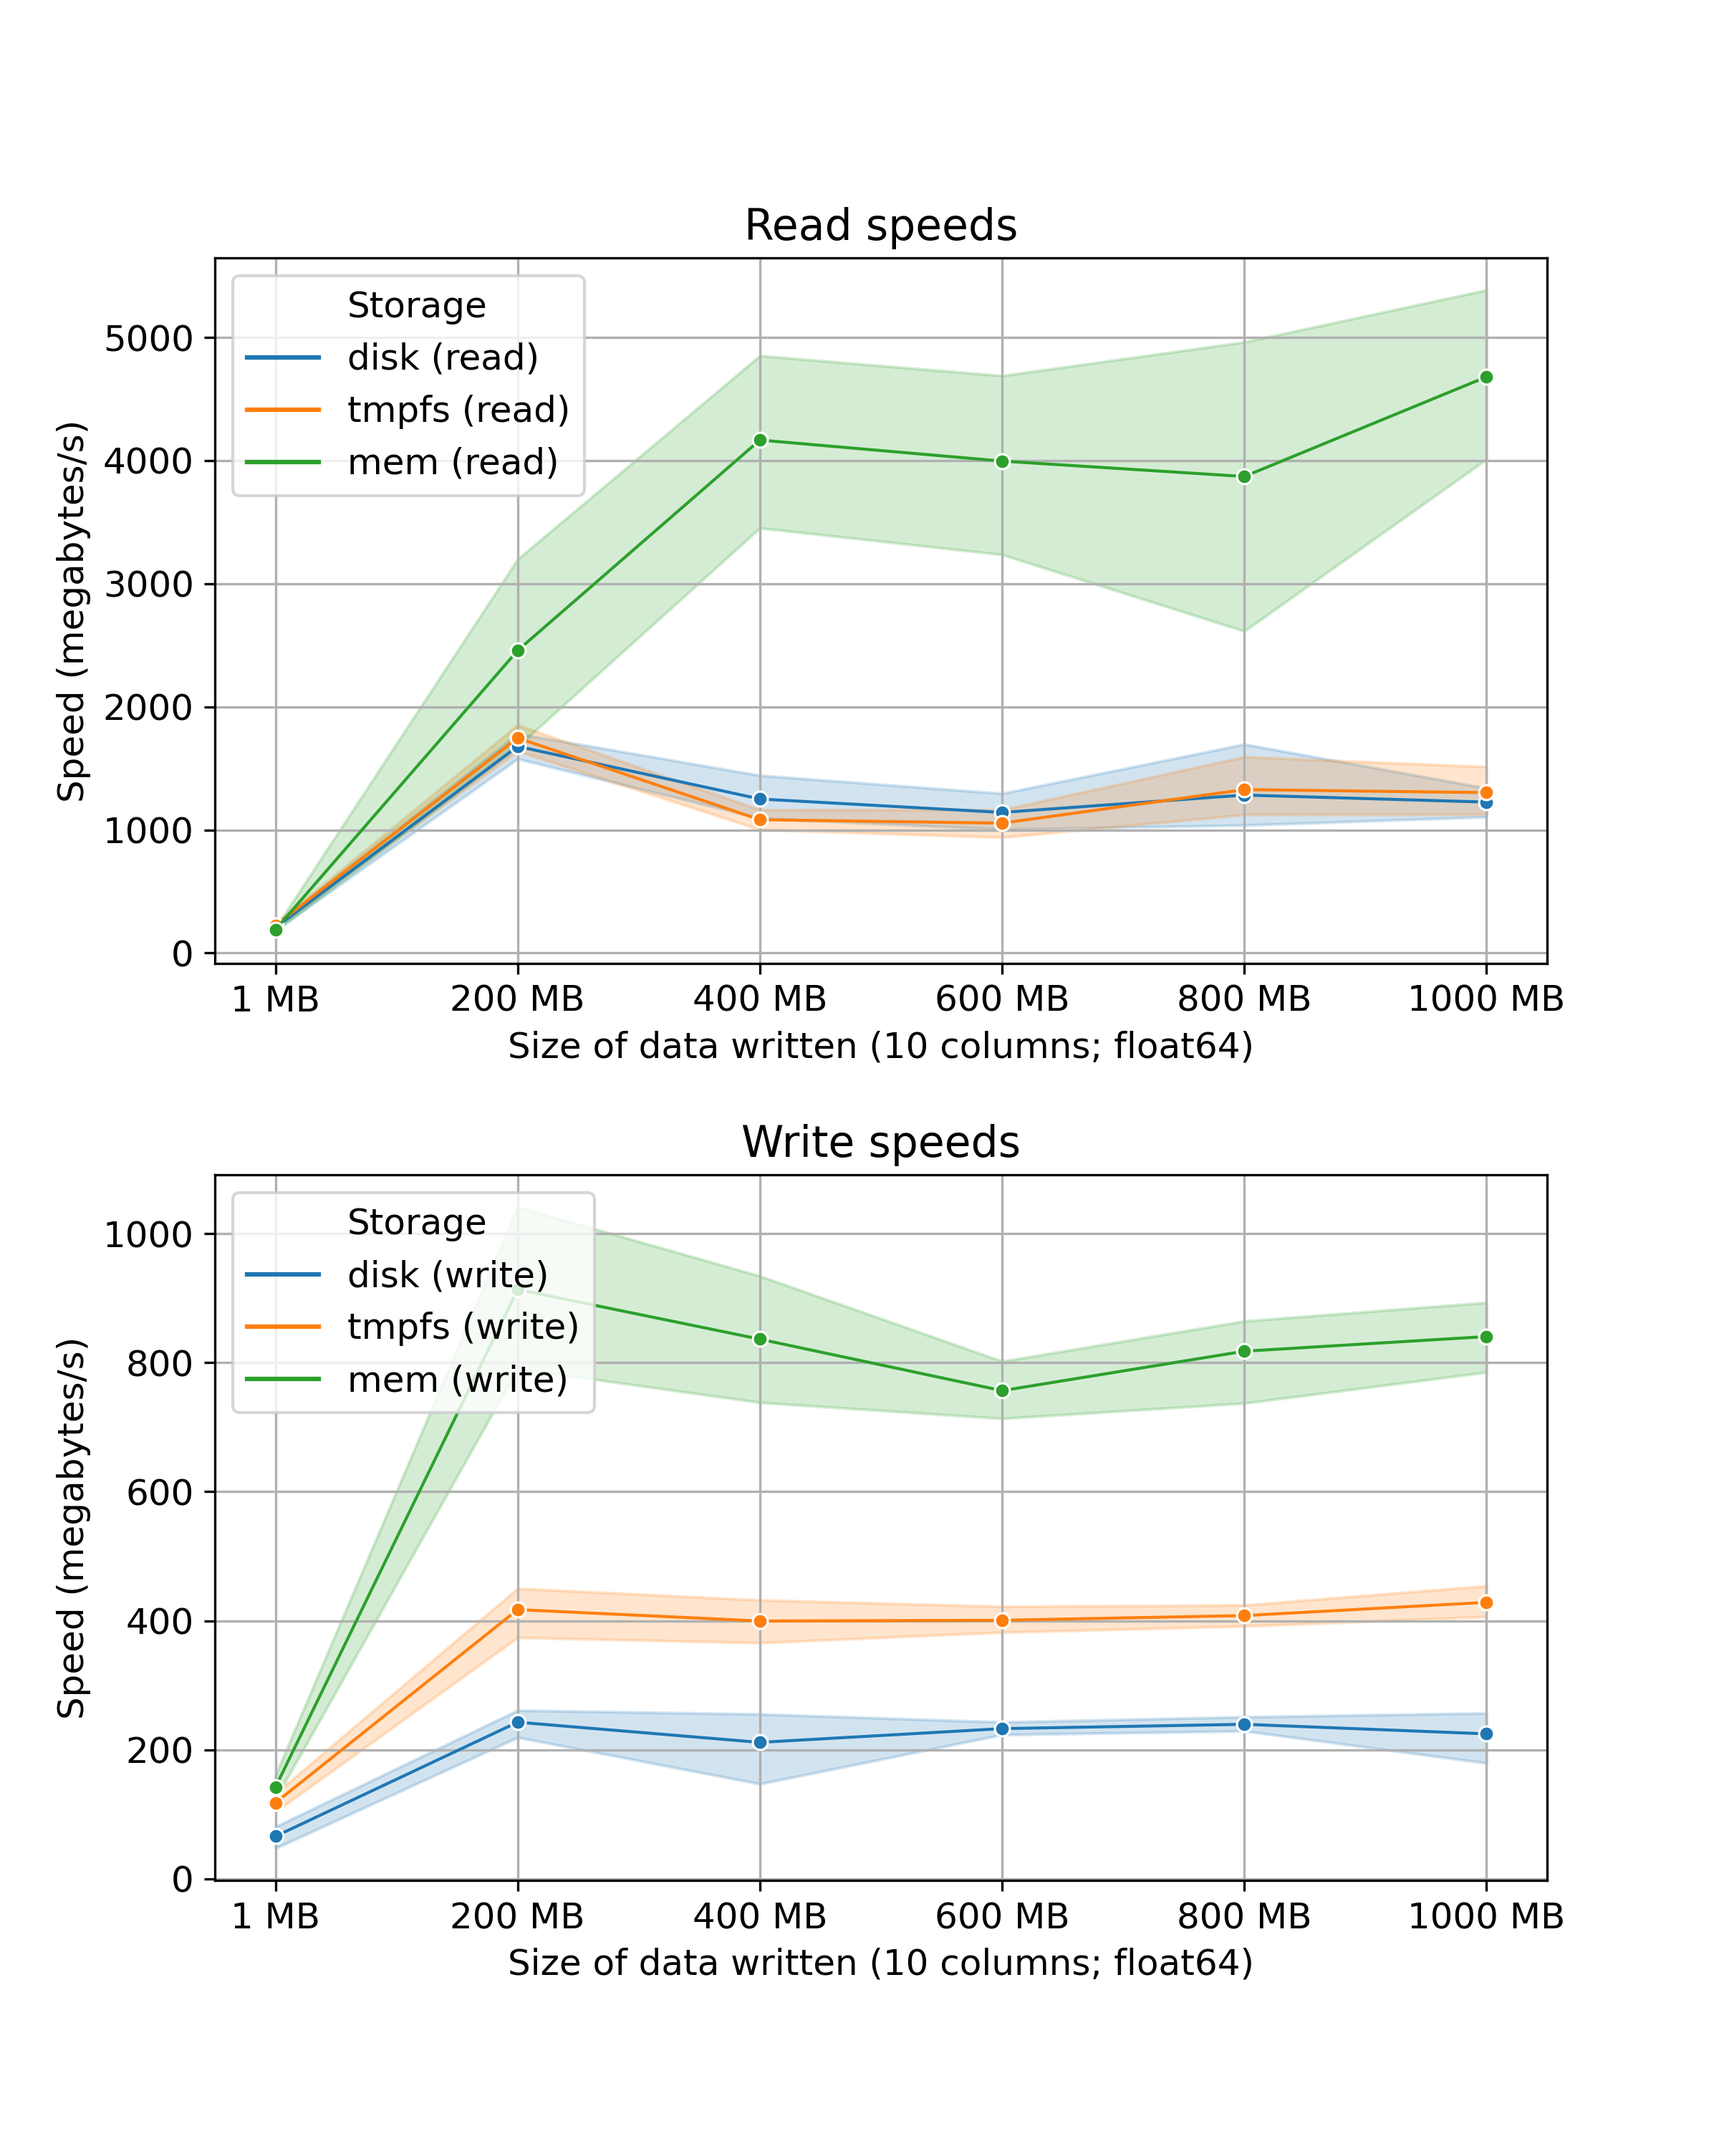
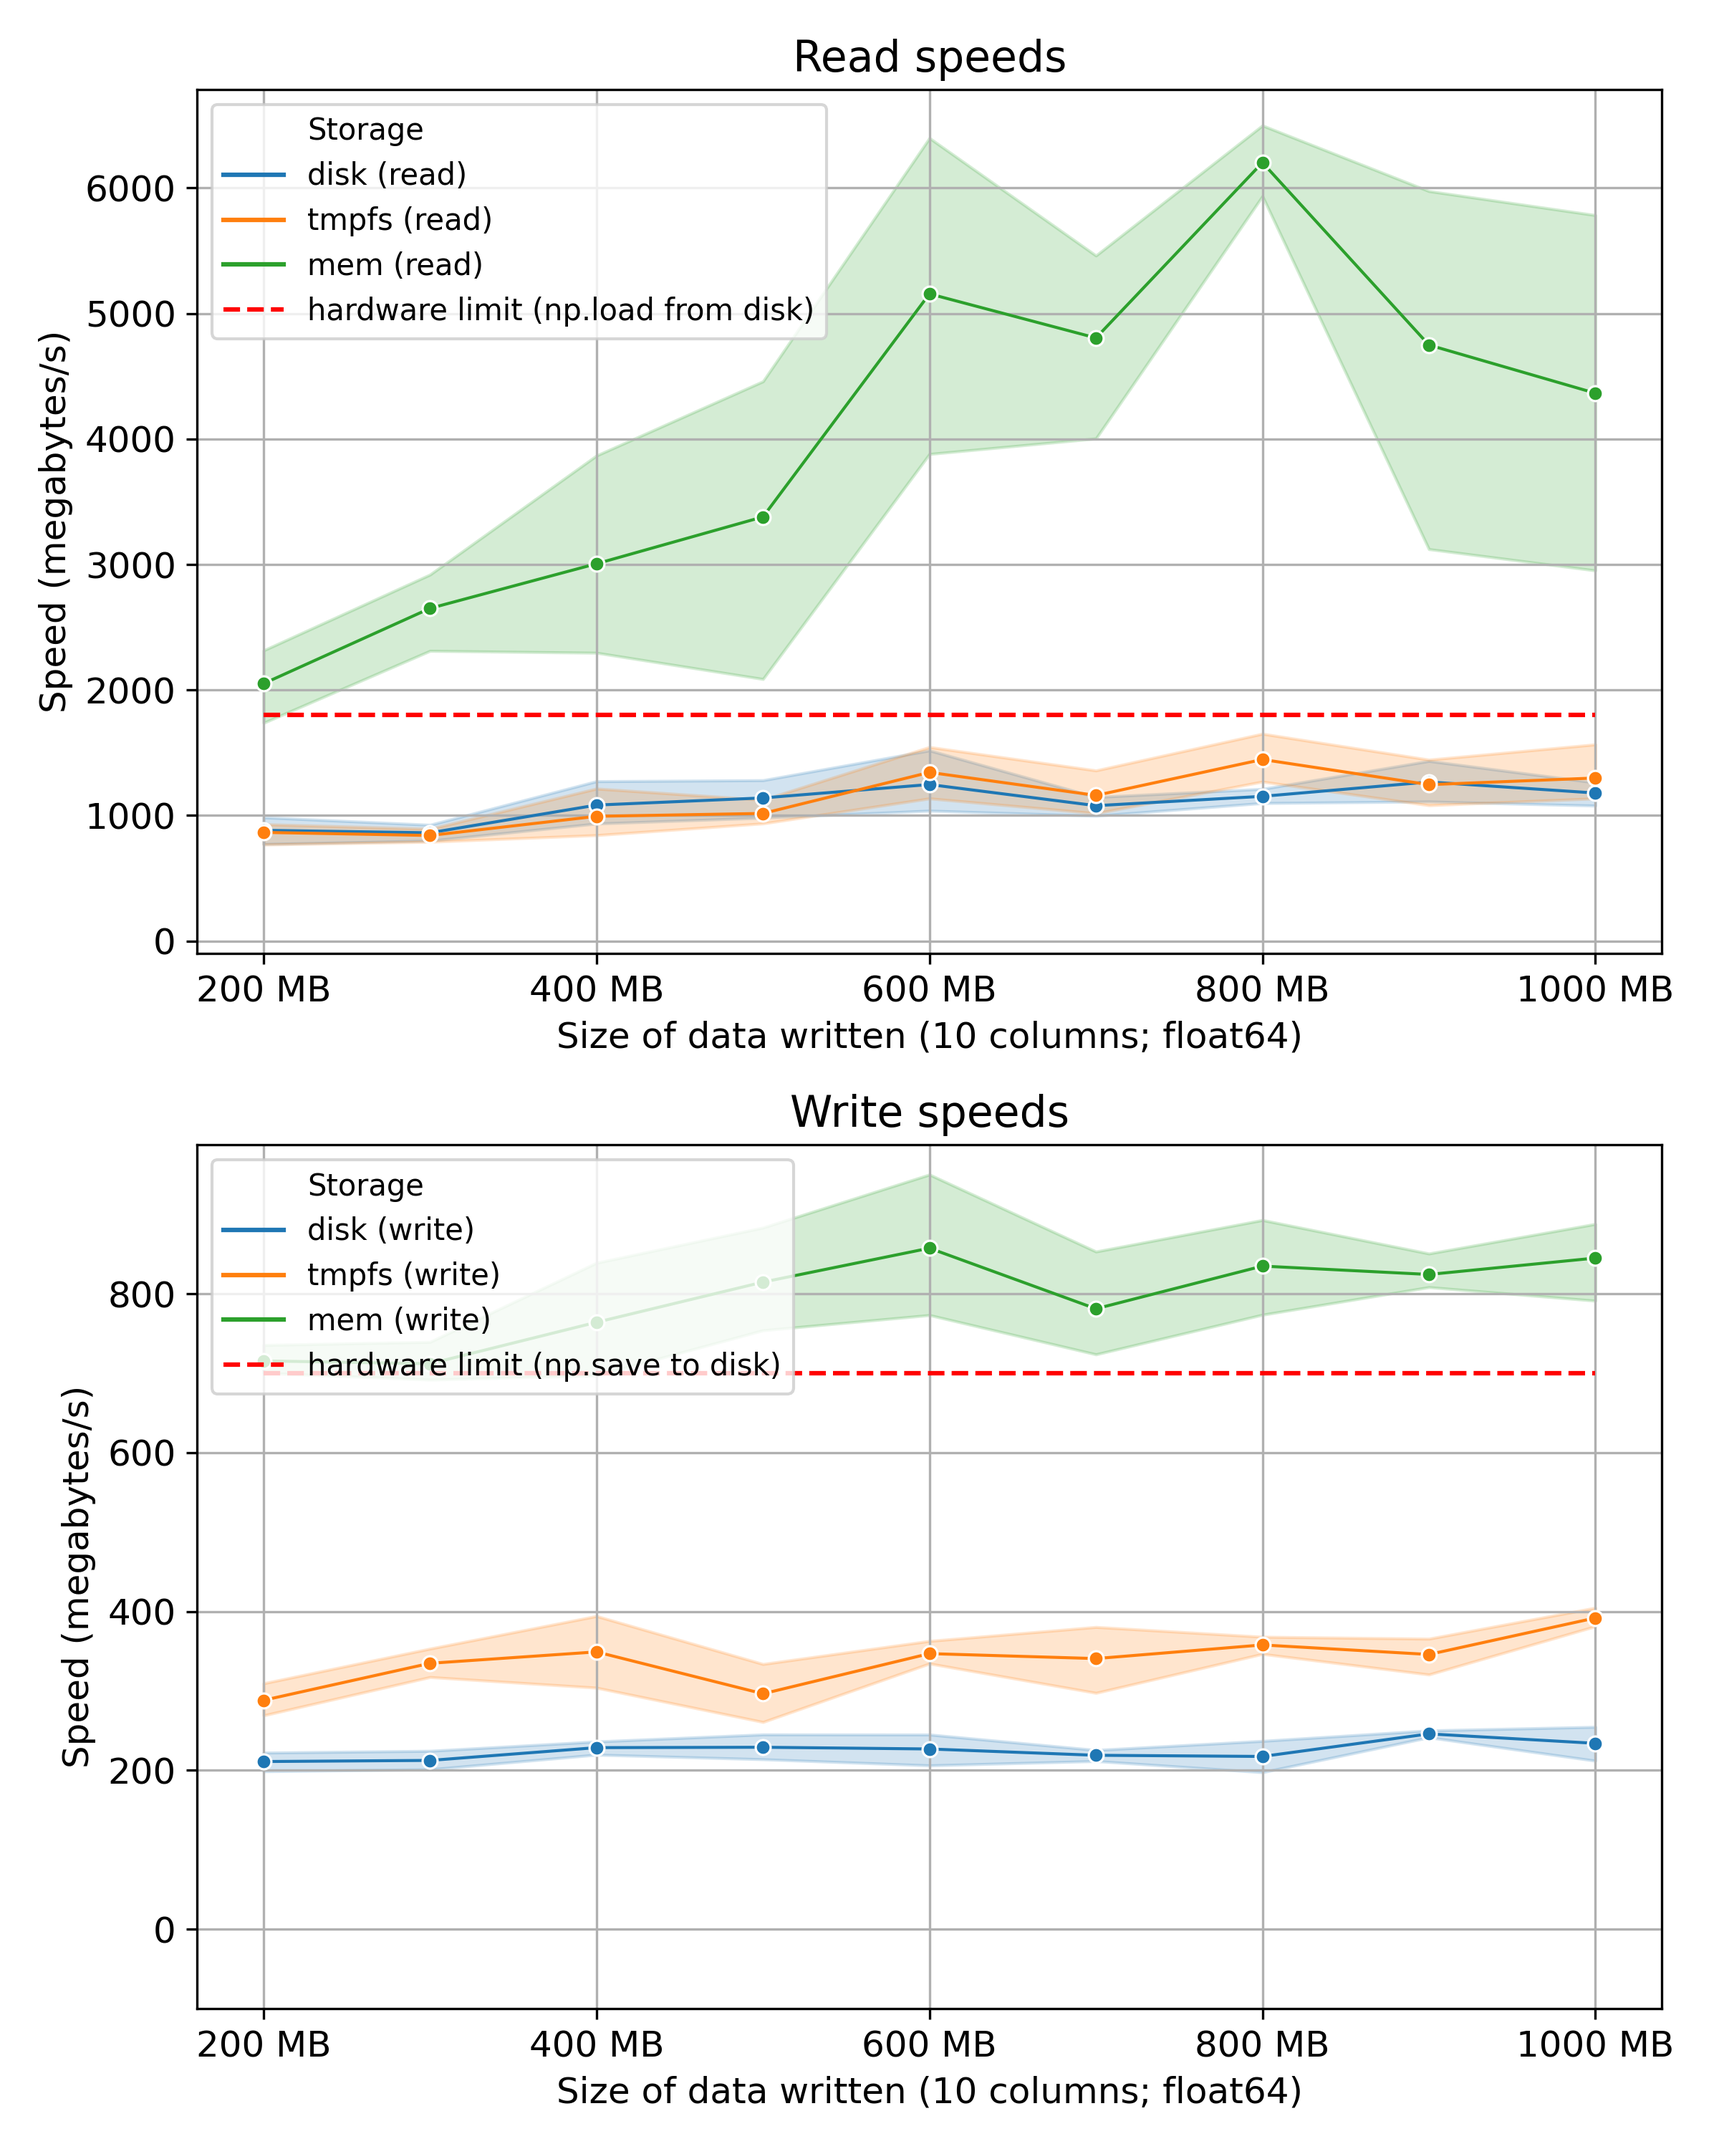
Reasonable perf graph with hardware limits. Added explanations about potential use of fio.

diff --git a/docs/mkdocs/docs/tutorials/lmdb_and_in_memory.md b/docs/mkdocs/docs/tutorials/lmdb_and_in_memory.md
@@ -1,7 +1,6 @@
 # LMDB and In-Memory storage backends
 
-As alternatives to object storage such as S3 and Azure, ArcticDB can use a file-based LMDB
-backend, or a RAM-based in-memory storage.
+ArcticDB can use a file-based LMDB backend, or a RAM-based in-memory storage, as alternatives to object storage such as S3 and Azure.
 
 Two simple examples are shown below.
 
@@ -134,13 +133,141 @@ Filesystem               Size  Used Avail Use% Mounted on
 tmpfs                    1.0G     0  1.0G   0% /somedir/tmpfs_mount_point
 ```
 
-From Python you can connect to this filesystem with LMDB as you would usually.
+From ArcticDB you can connect to this filesystem with LMDB as you would usually.
 
 ### Is it any faster?
 
-See the timing results below. The differences are not massive, but clearly `tmpfs` is a good ephemeral LMDB store
-solution.
+See the timing results below and the Appendix for the code to generate this data. The differences are not huge with
+tmpfs out-performing disk only for symbol writing operations. Nevertheless, tmpfs is clearly a better option for an
+ephemeral LMDB backend. We can also see that the in-memory store is significantly faster across the board as would
+be expected.
 
 ![](/images/LMDBtmpfsDiskMemSpeeds.png)
 
-Note: the ranges are roughly confidence intervals. Five repeats were made for each data size.
+Note: the ranges are 95% confidence intervals based on five repeats for each data size. The hardware limits are for
+writing to disk (not tmpfs) using the `np.save` and `np.load` functions. No data was sought for the RAM's hardware
+limit.
+
+### Attempts to measure hardware limits using `fio`
+
+Profiling hardware limits using `fio` rather than `numpy` is also possible, but varies wildly with the parameters used,
+in particular the number of jobs (processes) to use. With the commands below, the results were too unreliable to
+be of any use. The read and write numbers were both around 500 MB/s, but in increasing the `--numjobs` option,
+these numbers could be inflated drastically to upwards of 10 GB/s.
+
+Read test command:
+
+```bash
+fio --filename=./test.dat --size=2G --rw=read --bs=500M --ioengine=libaio --numjobs=1 --iodepth=1000 --name=sequential_reads --direct=0 --group_reporting
+```
+
+and for writing:
+
+```bash
+fio --filename=./test.dat --size=2G --rw=write --bs=4k --ioengine=libaio --numjobs=1 --iodepth=1000 --name=sequential_writes --direct=0 --group_reporting
+```
+
+For an explanation of the parameters see [the `fio` docs](https://fio.readthedocs.io/en/latest/fio_doc.html#threads-processes-and-job-synchronization).
+
+Thoughts on using `fio` more effectively: the block size `--bs` parameter should match ArcticDB's segment size. E.g.
+for 100,000 rows by 10 columns (as is the case here), then `--bs=8MB` is appropriate. For the `--size`, this should
+match the total size of the data being written/read to/from the symbol. The `--numjobs` should probably be one, since
+this clones separate processes which write to their own files and aggregates the total write speed and ArcticDB is limited
+to one storage backend. For `--iodepth`, this should match the number of I/O threads that ArcticDB is configured
+with:
+
+```python
+from arcticdb_ext import set_config_int
+set_config_int("VersionStore.NumIOThreads", <number_threads>)
+```
+
+However, even with these options, the read speed is still reported by `fio` as around 500 MB/s which ArcticSB seems to
+out-perform! More work needs to be done here in determining an appropriate hardware limit.
+
+### Appendix: Profiling script
+
+```python linenums="1"
+# Scipt to profile LMDB on disk vs tmpfs, and compare
+# also with the in-memory ArcticDB backend
+from arcticdb import Arctic
+import pandas as pd
+import time
+import numpy as np
+import shutil, os
+
+num_processes = 50
+ncols = 10
+nrepeats_per_data_point = 5
+
+# Note that these are not deleted when the script finishes
+disk_dir = 'disk.lmdb'
+# Need to manually mount ./k as a tmpfs file system
+tmpfs_dir = 'k/tmpfs.lmdb'
+# Temporary file to gauge hardware speed limits
+temp_numpy_file = 'temp.npy'
+csv_out_file = 'tmpfs_vs_disk_timings.csv'
+
+timings = {
+    'Storage': [],
+    'Load (bytes)': [],
+    'Speed (megabytes/s)': []
+}
+
+for data_B in np.linspace(start=200e6, stop=1000e6, num=9, dtype=int):
+    nrows = int(data_B / ncols / np.dtype(float).itemsize)
+    array = np.random.randn(nrows, ncols)
+    data = pd.DataFrame(array, columns=[f'c{i}' for i in range(ncols)])
+    assert data.values.nbytes == data_B
+
+    start = time.time()
+    np.save(temp_numpy_file, array)
+    elapsed = time.time() - start
+    write_speed_MB_s = data_B / 1e6 / elapsed
+
+    start = time.time()
+    np.load(temp_numpy_file)
+    elapsed = time.time() - start
+    read_speed_MB_s = data_B / 1e6 / elapsed
+    print(f'For {data_B}, Numpy Read speed {read_speed_MB_s} MB/s, write {write_speed_MB_s} MB/s')
+
+    for _ in range(nrepeats_per_data_point):
+        for test_dir in (disk_dir, tmpfs_dir, 'mem'):
+            print(f'Timing {test_dir} with load {data_B} B')
+
+            if test_dir == 'mem':
+                ac = Arctic(f'mem://')
+            else:
+                if os.path.exists(test_dir):
+                    # Free up space from last test
+                    shutil.rmtree(test_dir)
+
+                ac = Arctic(f'lmdb://{test_dir}')
+
+            if 'lib' not in ac.list_libraries():
+                ac.create_library('lib')
+
+            lib = ac['lib']
+            start = time.time()
+            lib.write('symbol', data)
+            elapsed = time.time() - start
+            write_speed_MB_s = data_B / 1e6 / elapsed
+            print('Time to write', elapsed, 's')
+
+            start = time.time()
+            lib.read('symbol')
+            elapsed = time.time() - start
+            read_speed_MB_s = data_B / 1e6 / elapsed
+            print('Time to read', elapsed, 's')
+
+            storage_name = {disk_dir: 'disk', tmpfs_dir: 'tmpfs', 'mem': 'mem'}[test_dir]
+            # Record the writing speed
+            timings['Load (bytes)'].append(data_B)
+            timings['Storage'].append(storage_name + ' (write)')
+            timings['Speed (megabytes/s)'].append(write_speed_MB_s)
+            # Record the reading speed
+            timings['Load (bytes)'].append(data_B)
+            timings['Storage'].append(storage_name + ' (read)')
+            timings['Speed (megabytes/s)'].append(read_speed_MB_s)
+
+pd.DataFrame(timings).to_csv(csv_out_file)
+```
